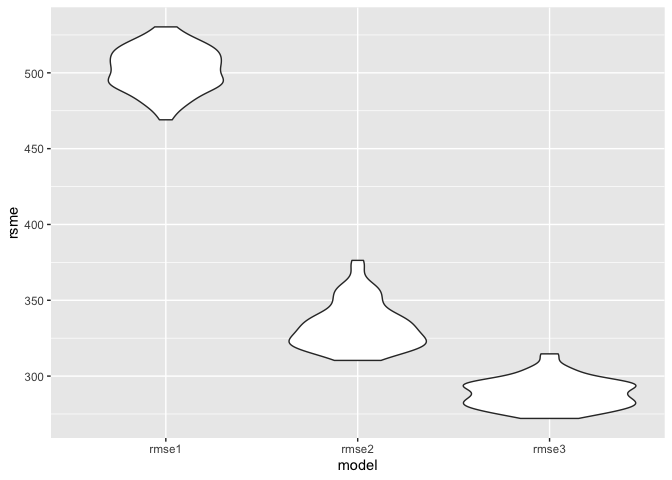
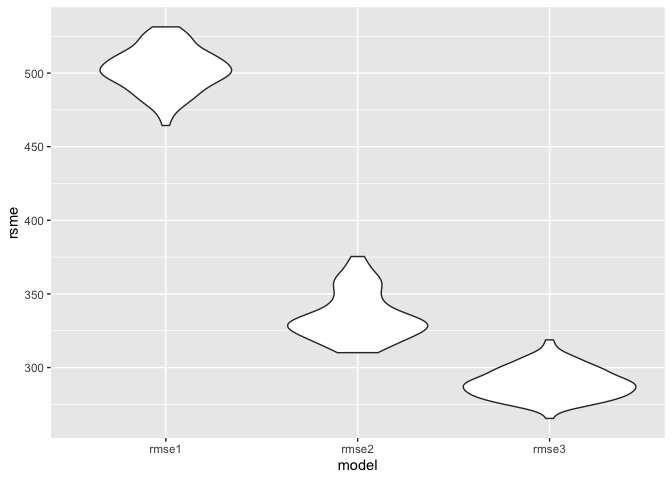
problem 3 plots and CIs.

diff --git a/p8105_aw3251_hw6.md b/p8105_aw3251_hw6.md
@@ -398,16 +398,16 @@ cv_df
     ## # A tibble: 100 x 9
     ##    train             test             .id   fit1   fit2  fit3  rmse1 rmse2 rmse3
     ##    <list>            <list>           <chr> <list> <lis> <lis> <dbl> <dbl> <dbl>
-    ##  1 <tibble [3,473 ×… <tibble [869 × … 001   <lm>   <lm>  <lm>   502.  325.  293.
-    ##  2 <tibble [3,473 ×… <tibble [869 × … 002   <lm>   <lm>  <lm>   506.  363.  311.
-    ##  3 <tibble [3,473 ×… <tibble [869 × … 003   <lm>   <lm>  <lm>   502.  329.  289.
-    ##  4 <tibble [3,473 ×… <tibble [869 × … 004   <lm>   <lm>  <lm>   497.  318.  281.
-    ##  5 <tibble [3,473 ×… <tibble [869 × … 005   <lm>   <lm>  <lm>   494.  327.  285.
-    ##  6 <tibble [3,473 ×… <tibble [869 × … 006   <lm>   <lm>  <lm>   511.  345.  296.
-    ##  7 <tibble [3,473 ×… <tibble [869 × … 007   <lm>   <lm>  <lm>   486.  326.  284.
-    ##  8 <tibble [3,473 ×… <tibble [869 × … 008   <lm>   <lm>  <lm>   487.  312.  269.
-    ##  9 <tibble [3,473 ×… <tibble [869 × … 009   <lm>   <lm>  <lm>   508.  350.  305.
-    ## 10 <tibble [3,473 ×… <tibble [869 × … 010   <lm>   <lm>  <lm>   473.  355.  295.
+    ##  1 <tibble [3,473 ×… <tibble [869 × … 001   <lm>   <lm>  <lm>   530.  333.  289.
+    ##  2 <tibble [3,473 ×… <tibble [869 × … 002   <lm>   <lm>  <lm>   496.  374.  319.
+    ##  3 <tibble [3,473 ×… <tibble [869 × … 003   <lm>   <lm>  <lm>   501.  310.  278.
+    ##  4 <tibble [3,473 ×… <tibble [869 × … 004   <lm>   <lm>  <lm>   482.  311.  276.
+    ##  5 <tibble [3,473 ×… <tibble [869 × … 005   <lm>   <lm>  <lm>   504.  369.  301.
+    ##  6 <tibble [3,473 ×… <tibble [869 × … 006   <lm>   <lm>  <lm>   516.  331.  288.
+    ##  7 <tibble [3,473 ×… <tibble [869 × … 007   <lm>   <lm>  <lm>   514.  360.  305.
+    ##  8 <tibble [3,473 ×… <tibble [869 × … 008   <lm>   <lm>  <lm>   487.  311.  273.
+    ##  9 <tibble [3,473 ×… <tibble [869 × … 009   <lm>   <lm>  <lm>   524.  336.  291.
+    ## 10 <tibble [3,473 ×… <tibble [869 × … 010   <lm>   <lm>  <lm>   499.  331.  299.
     ## # … with 90 more rows
 
 ``` r
@@ -461,3 +461,186 @@ weather_df =
 ``` r
 set.seed(1)
 ```
+
+Fitting the linear model.
+
+``` r
+fit = lm(tmax ~tmin, data = weather_df)
+summary(fit)
+```
+
+    ## 
+    ## Call:
+    ## lm(formula = tmax ~ tmin, data = weather_df)
+    ## 
+    ## Residuals:
+    ##     Min      1Q  Median      3Q     Max 
+    ## -6.0304 -2.1245  0.0264  1.7264  9.4915 
+    ## 
+    ## Coefficients:
+    ##             Estimate Std. Error t value Pr(>|t|)    
+    ## (Intercept)  7.20850    0.22635   31.85   <2e-16 ***
+    ## tmin         1.03924    0.01699   61.16   <2e-16 ***
+    ## ---
+    ## Signif. codes:  0 '***' 0.001 '**' 0.01 '*' 0.05 '.' 0.1 ' ' 1
+    ## 
+    ## Residual standard error: 2.938 on 363 degrees of freedom
+    ## Multiple R-squared:  0.9115, Adjusted R-squared:  0.9113 
+    ## F-statistic:  3741 on 1 and 363 DF,  p-value: < 2.2e-16
+
+``` r
+fit_output = 
+fit %>% 
+  broom::tidy() %>% 
+  knitr::kable()
+
+fit_output 
+```
+
+| term        | estimate | std.error | statistic | p.value |
+| :---------- | -------: | --------: | --------: | ------: |
+| (Intercept) | 7.208502 | 0.2263474 |  31.84707 |       0 |
+| tmin        | 1.039241 | 0.0169919 |  61.16096 |       0 |
+
+Bootstrap function and plot.
+
+``` r
+boot_sample = function(df) {
+  sample_frac(df, replace = T) %>% 
+    arrange(tmin)
+}
+
+boot_sample(weather_df) %>% 
+  ggplot(aes(x = tmin, y = tmax)) +
+  geom_point() +
+  stat_smooth(method = "lm")
+```
+
+    ## `geom_smooth()` using formula 'y ~ x'
+
+![](p8105_aw3251_hw6_files/figure-gfm/unnamed-chunk-20-1.png)<!-- -->
+
+Taking 5000 bootstrap samples.
+
+``` r
+bootstraps = 
+  data_frame(
+    strap_number = 1:5000,
+    strap_sample = rerun(5000, boot_sample(weather_df))
+  )
+```
+
+    ## Warning: `data_frame()` is deprecated as of tibble 1.1.0.
+    ## Please use `tibble()` instead.
+    ## This warning is displayed once every 8 hours.
+    ## Call `lifecycle::last_warnings()` to see where this warning was generated.
+
+``` r
+bootstraps
+```
+
+    ## # A tibble: 5,000 x 2
+    ##    strap_number strap_sample      
+    ##           <int> <list>            
+    ##  1            1 <tibble [365 × 6]>
+    ##  2            2 <tibble [365 × 6]>
+    ##  3            3 <tibble [365 × 6]>
+    ##  4            4 <tibble [365 × 6]>
+    ##  5            5 <tibble [365 × 6]>
+    ##  6            6 <tibble [365 × 6]>
+    ##  7            7 <tibble [365 × 6]>
+    ##  8            8 <tibble [365 × 6]>
+    ##  9            9 <tibble [365 × 6]>
+    ## 10           10 <tibble [365 × 6]>
+    ## # … with 4,990 more rows
+
+Cleaning the output to focus on the selected quantities and creating the
+log equation.
+
+``` r
+bootstraps_output = 
+  bootstraps %>% 
+  mutate(
+    model = map(strap_sample, ~lm(tmax ~ tmin, data = .x)),
+    broomtidy = map(model, broom::tidy),
+    broomglance = map(model, broom::glance)
+  ) %>% 
+  unnest(broomtidy, broomglance) %>% 
+  select(term, estimate, r.squared) %>% 
+  pivot_wider(
+    names_from = term,
+    values_from = estimate
+  ) %>% 
+  rename(
+    B0 = '(Intercept)',
+    B1 = tmin,
+    rsq = r.squared
+  ) %>% 
+  mutate(log_eq = log(B0*B1)) %>% 
+  select(rsq, log_eq)
+```
+
+    ## Warning: unnest() has a new interface. See ?unnest for details.
+    ## Try `df %>% unnest(c(broomtidy, broomglance))`, with `mutate()` if needed
+
+``` r
+bootstraps_output
+```
+
+    ## # A tibble: 5,000 x 2
+    ##      rsq log_eq
+    ##    <dbl>  <dbl>
+    ##  1 0.896   2.03
+    ##  2 0.918   2.05
+    ##  3 0.899   2.07
+    ##  4 0.913   1.97
+    ##  5 0.919   1.99
+    ##  6 0.918   2.00
+    ##  7 0.907   2.00
+    ##  8 0.916   2.01
+    ##  9 0.918   2.02
+    ## 10 0.918   2.00
+    ## # … with 4,990 more rows
+
+Creating a plot of the log equation
+
+``` r
+log_curve = 
+bootstraps_output %>% 
+  ggplot(aes(x = log_eq)) +
+  geom_histogram() +
+  theme_bw() +
+  labs(
+    y = "Frequency",
+    x = "log(B0*B1) Estimate"
+  )
+
+log_curve
+```
+
+    ## `stat_bin()` using `bins = 30`. Pick better value with `binwidth`.
+
+![](p8105_aw3251_hw6_files/figure-gfm/unnamed-chunk-23-1.png)<!-- -->
+
+The 95% CI for log(B0\*B1) is \[1.96, 2.06\].
+
+Creating a plot of the R2.
+
+``` r
+rsq_curve  = 
+bootstraps_output %>% 
+  ggplot(aes(x = rsq)) +
+  geom_histogram() +
+  labs(
+    y = "Frequency",
+    x = "R2 Estimate"
+  )
+
+rsq_curve
+```
+
+    ## `stat_bin()` using `bins = 30`. Pick better value with `binwidth`.
+
+![](p8105_aw3251_hw6_files/figure-gfm/unnamed-chunk-24-1.png)<!-- -->
+
+The 95% CI for r2 is \[0.89, 0.93\].
